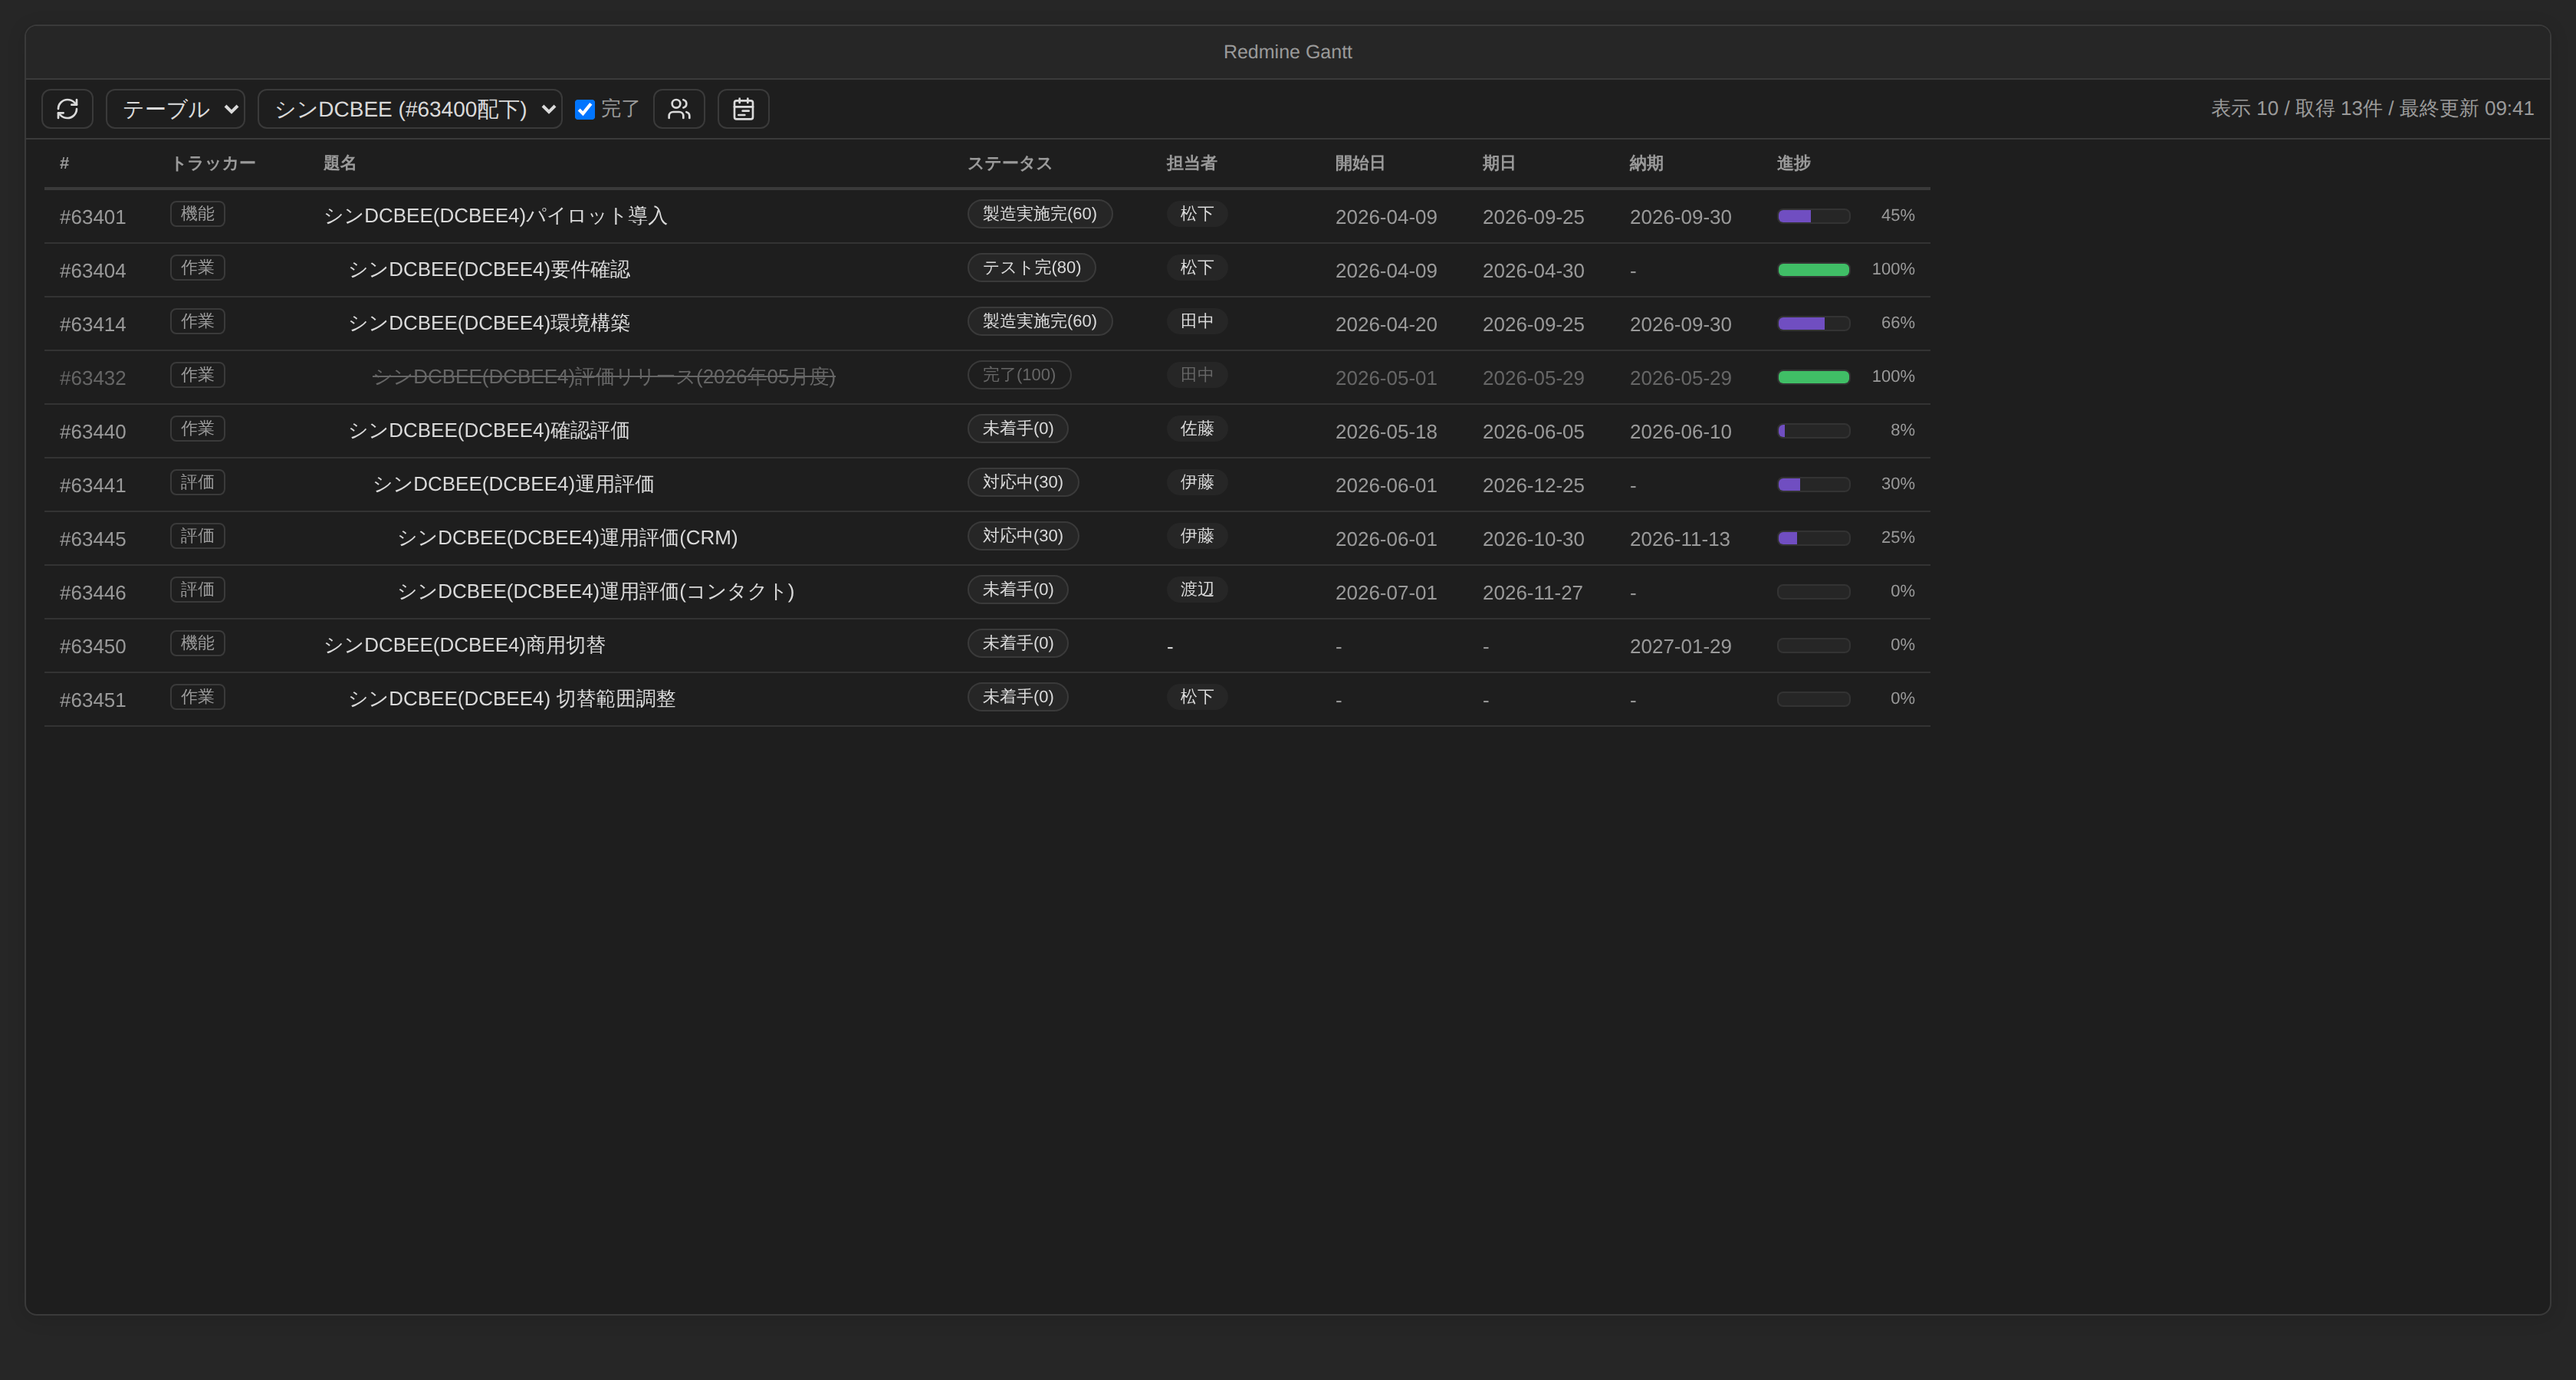
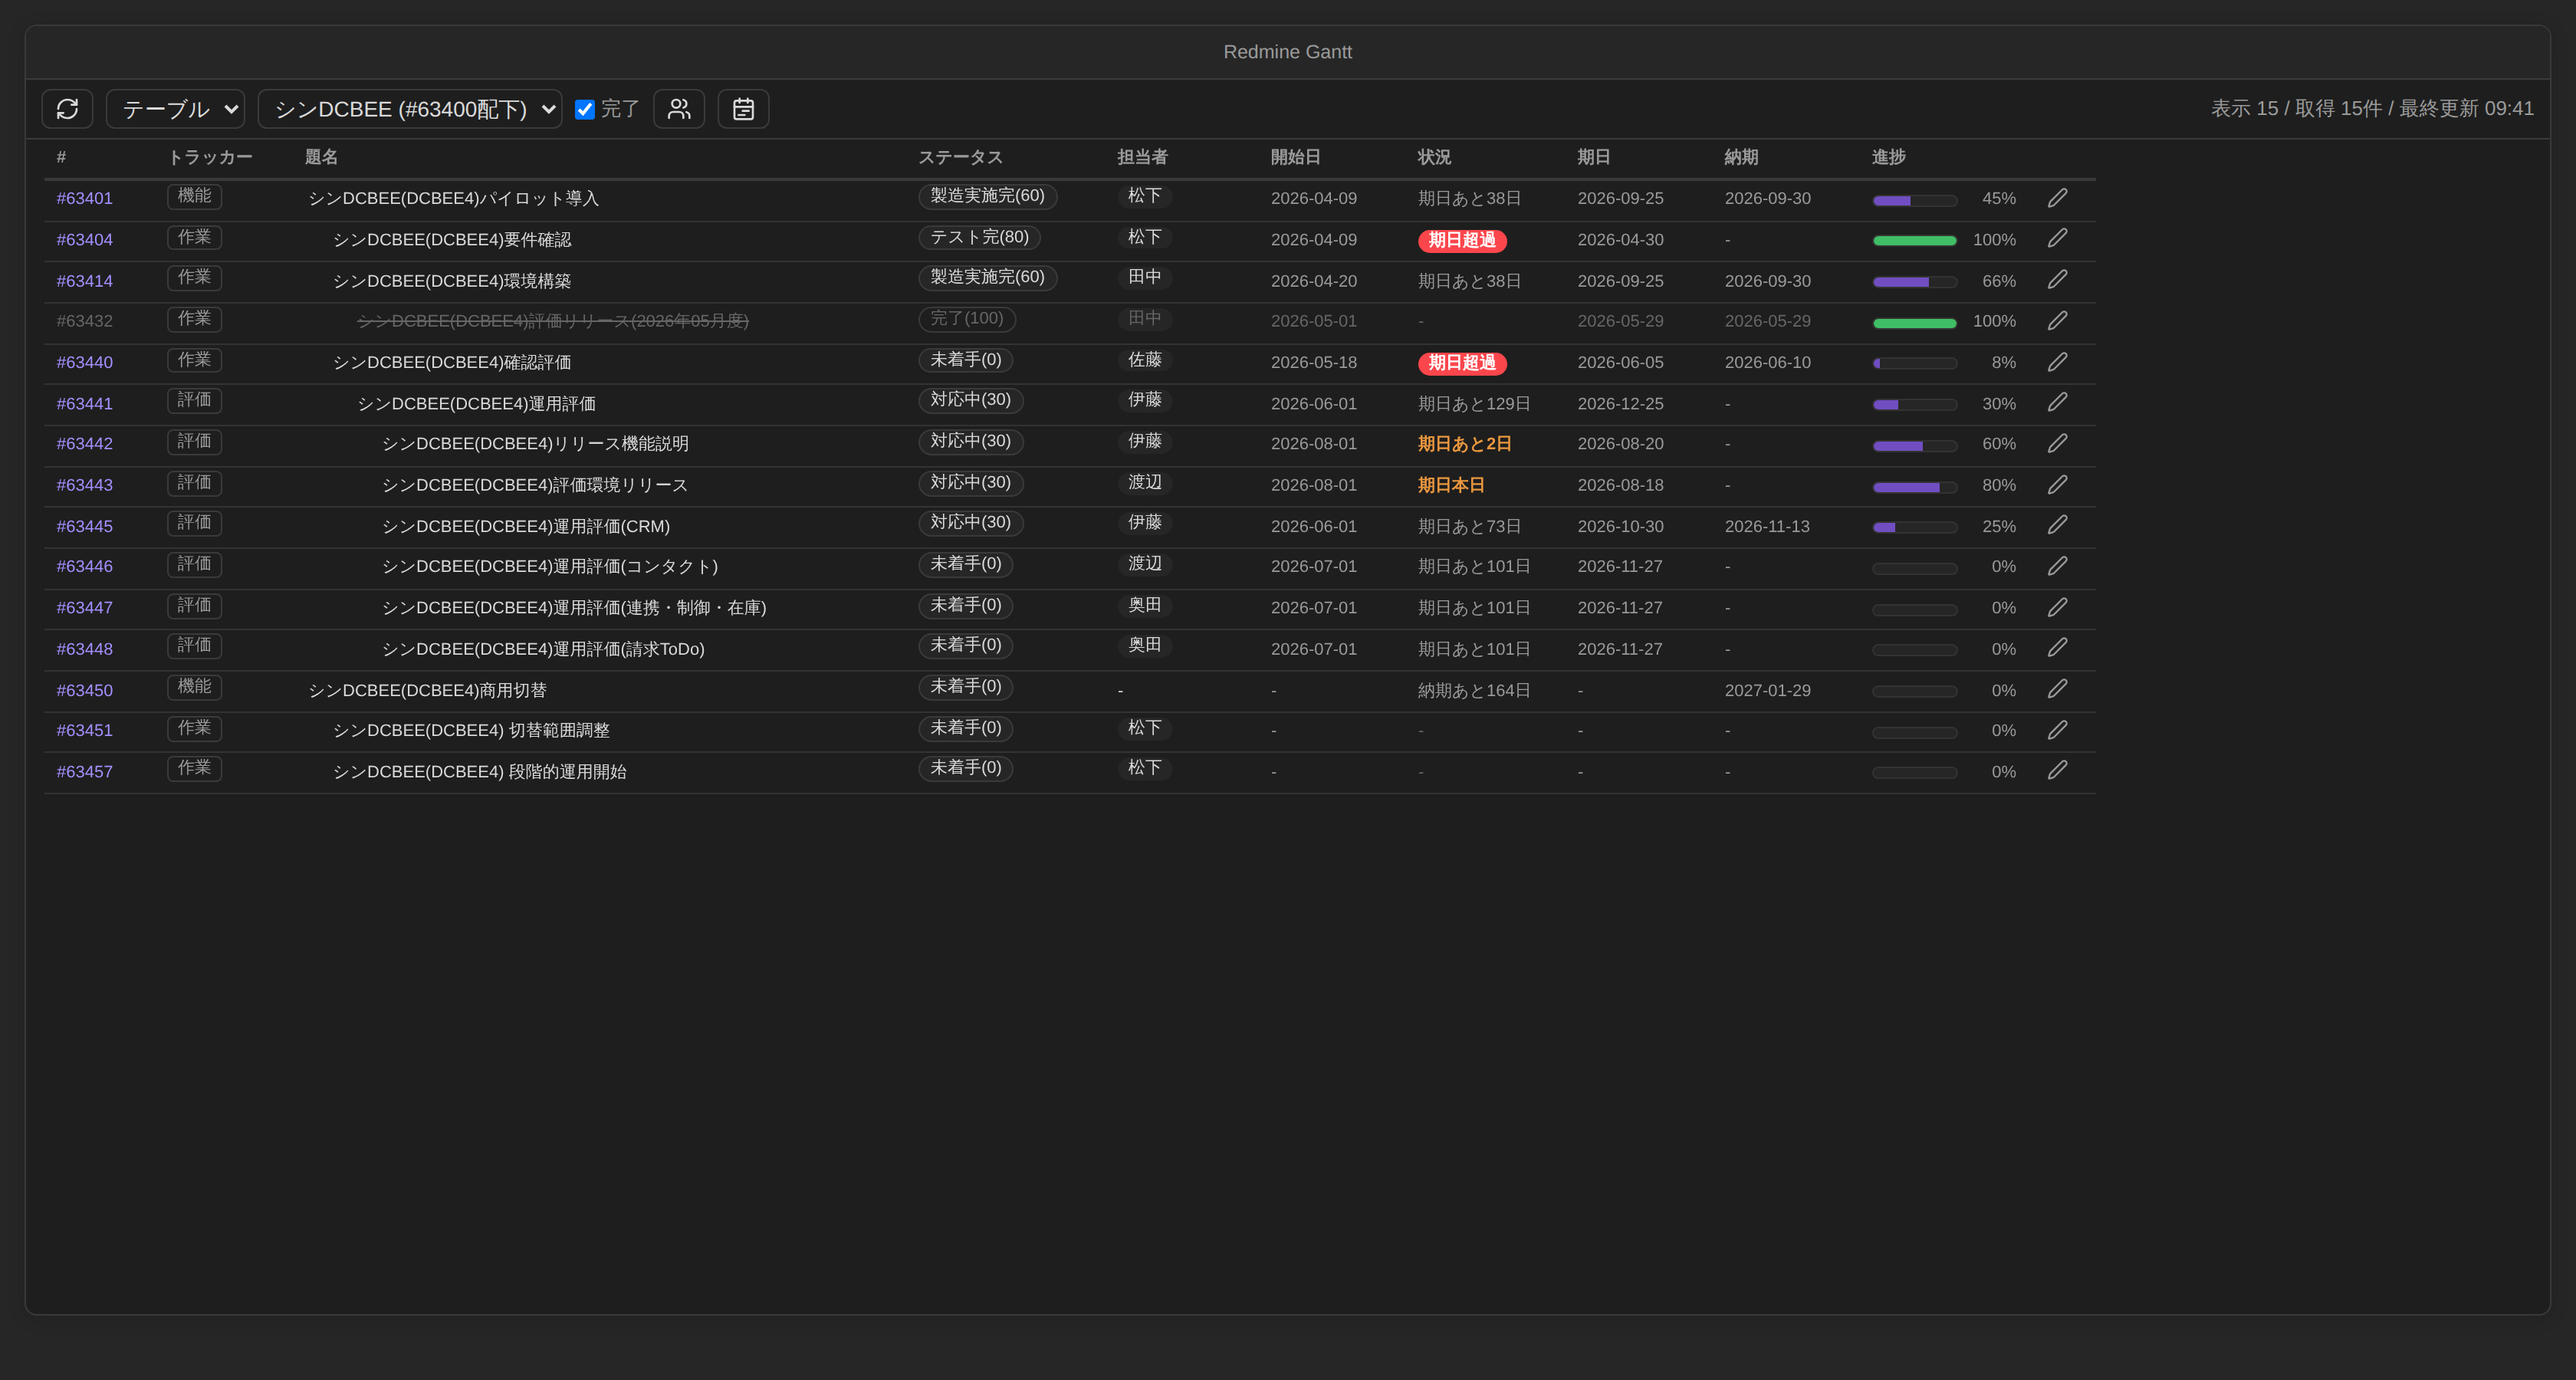
テーブルをコンパクト化し「状況」列を追加
- フォントを一段縮小しセル余白を圧縮、行高を約2/3にして表示件数を増加
  (バッジ・チップ・進捗バー・編集ボタンも縮小)
- 開始日の横に「状況」列を追加: 現在日と期日(なければ納期)を比較し
  「期日あとXX日」を表示。超過は赤バッジ「期日超過」(ツールチップで超過日数)、
  当日・3日以内はオレンジで警告。完了チケットと日付なしは対象外
- 画面イメージ・README・ARCHITECTUREを更新、main.jsを再ビルド

Claude-Session: https://claude.ai/code/session_0118WAWEAhUn2qJokaWLCuZh

Changed region(s): [[0.0, 0.0933, 0.8125, 0.56], [0.4375, 0.2489, 0.4688, 0.4356]]

diff --git a/src/gantt/table.ts b/src/gantt/table.ts
@@ -1,6 +1,7 @@
 import { setIcon } from "obsidian";
 import type { GanttModel, GanttTask } from "../redmine/mapper";
 import { formatDate, RenderOptions } from "./renderer";
+import { diffDays } from "./scale";
 
 const INDENT = 16;
 const MIN_COL_WIDTH = 48;
@@ -12,6 +13,7 @@ const COLUMNS: { label: string; width: number; cls?: string }[] = [
 	{ label: "ステータス", width: 120 },
 	{ label: "担当者", width: 110 },
 	{ label: "開始日", width: 96, cls: "rg-td-date" },
+	{ label: "状況", width: 104 },
 	{ label: "期日", width: 96, cls: "rg-td-date" },
 	{ label: "納期", width: 96, cls: "rg-td-date" },
 	{ label: "進捗", width: 96 },
@@ -132,6 +134,21 @@ function renderRow(tbody: HTMLElement, task: GanttTask, opts: TableOptions): voi
 		cls: "rg-td-date",
 		text: task.start && !task.startIsFallback ? formatDate(task.start) : "-",
 	});
+
+	// 状況(現在日と期日/納期の比較)
+	const situationCell = row.createEl("td");
+	const situation = computeSituation(task);
+	if (situation) {
+		const el = situationCell.createSpan({
+			cls: `rg-due rg-due-${situation.kind}`,
+			text: situation.text,
+		});
+		if (situation.title) el.setAttr("title", situation.title);
+	} else {
+		situationCell.setText("-");
+		situationCell.addClass("rg-td-empty");
+	}
+
 	row.createEl("td", {
 		cls: "rg-td-date",
 		text: task.due && !task.dueIsFallback ? formatDate(task.due) : "-",
@@ -157,4 +174,41 @@ function renderRow(tbody: HTMLElement, task: GanttTask, opts: TableOptions): voi
 		btn.setAttr("aria-label", `#${task.id} を編集`);
 		btn.addEventListener("click", () => opts.onEdit!(task.id));
 	}
+}
+
+/** "YYYY-MM-DD" 形式の納期文字列を日付として解釈する */
+function parseDeliveryDate(s: string): Date | null {
+	const m = s.trim().match(/^(\d{4})-(\d{2})-(\d{2})$/);
+	if (!m) return null;
+	return new Date(Number(m[1]), Number(m[2]) - 1, Number(m[3]));
+}
+
+interface Situation {
+	text: string;
+	kind: "over" | "soon" | "normal";
+	title?: string;
+}
+
+/**
+ * 現在日と期日(なければ納期)を比較した状況表示。
+ * 完了チケット・比較対象の日付がないチケットは null
+ */
+function computeSituation(task: GanttTask): Situation | null {
+	if (task.isClosed) return null;
+	const due = task.due && !task.dueIsFallback ? task.due : null;
+	const delivery = parseDeliveryDate(task.delivery);
+	const label = due ? "期日" : delivery ? "納期" : null;
+	const target = due ?? delivery;
+	if (!label || !target) return null;
+
+	const now = new Date();
+	const today = new Date(now.getFullYear(), now.getMonth(), now.getDate());
+	const diff = diffDays(today, target);
+	if (diff < 0) {
+		return { text: `${label}超過`, kind: "over", title: `${-diff}日超過 (${formatDate(target)})` };
+	}
+	if (diff === 0) {
+		return { text: `${label}本日`, kind: "soon" };
+	}
+	return { text: `${label}あと${diff}日`, kind: diff <= 3 ? "soon" : "normal" };
 }

diff --git a/main.js b/main.js
@@ -1097,6 +1097,7 @@ var COLUMNS = [
   { label: "\u30B9\u30C6\u30FC\u30BF\u30B9", width: 120 },
   { label: "\u62C5\u5F53\u8005", width: 110 },
   { label: "\u958B\u59CB\u65E5", width: 96, cls: "rg-td-date" },
+  { label: "\u72B6\u6CC1", width: 104 },
   { label: "\u671F\u65E5", width: 96, cls: "rg-td-date" },
   { label: "\u7D0D\u671F", width: 96, cls: "rg-td-date" },
   { label: "\u9032\u6357", width: 96 },
@@ -1189,6 +1190,19 @@ function renderRow(tbody, task, opts) {
     cls: "rg-td-date",
     text: task.start && !task.startIsFallback ? formatDate(task.start) : "-"
   });
+  const situationCell = row.createEl("td");
+  const situation = computeSituation(task);
+  if (situation) {
+    const el = situationCell.createSpan({
+      cls: `rg-due rg-due-${situation.kind}`,
+      text: situation.text
+    });
+    if (situation.title)
+      el.setAttr("title", situation.title);
+  } else {
+    situationCell.setText("-");
+    situationCell.addClass("rg-td-empty");
+  }
   row.createEl("td", {
     cls: "rg-td-date",
     text: task.due && !task.dueIsFallback ? formatDate(task.due) : "-"
@@ -1209,6 +1223,32 @@ function renderRow(tbody, task, opts) {
     btn.setAttr("aria-label", `#${task.id} \u3092\u7DE8\u96C6`);
     btn.addEventListener("click", () => opts.onEdit(task.id));
   }
+}
+function parseDeliveryDate(s) {
+  const m = s.trim().match(/^(\d{4})-(\d{2})-(\d{2})$/);
+  if (!m)
+    return null;
+  return new Date(Number(m[1]), Number(m[2]) - 1, Number(m[3]));
+}
+function computeSituation(task) {
+  if (task.isClosed)
+    return null;
+  const due = task.due && !task.dueIsFallback ? task.due : null;
+  const delivery = parseDeliveryDate(task.delivery);
+  const label = due ? "\u671F\u65E5" : delivery ? "\u7D0D\u671F" : null;
+  const target = due != null ? due : delivery;
+  if (!label || !target)
+    return null;
+  const now = /* @__PURE__ */ new Date();
+  const today = new Date(now.getFullYear(), now.getMonth(), now.getDate());
+  const diff = diffDays(today, target);
+  if (diff < 0) {
+    return { text: `${label}\u8D85\u904E`, kind: "over", title: `${-diff}\u65E5\u8D85\u904E (${formatDate(target)})` };
+  }
+  if (diff === 0) {
+    return { text: `${label}\u672C\u65E5`, kind: "soon" };
+  }
+  return { text: `${label}\u3042\u3068${diff}\u65E5`, kind: diff <= 3 ? "soon" : "normal" };
 }
 
 // src/gantt/GanttView.ts

diff --git a/styles.css b/styles.css
@@ -394,7 +394,8 @@
 	border-collapse: separate;
 	border-spacing: 0;
 	table-layout: fixed;
-	font-size: var(--font-ui-small);
+	font-size: var(--font-ui-smaller);
+	line-height: 1.35;
 }
 
 .rg-table th,
@@ -414,12 +415,12 @@
 	color: var(--text-muted);
 	font-weight: 600;
 	font-size: var(--font-ui-smaller);
-	padding: 8px 10px;
+	padding: 5px 8px;
 	border-bottom: 2px solid var(--background-modifier-border);
 }
 
 .rg-table td {
-	padding: 6px 10px;
+	padding: 2px 8px;
 	border-bottom: 1px solid var(--background-modifier-border-hover);
 }
 
@@ -498,8 +499,8 @@ body.rg-resizing {
 	max-width: 100%;
 	overflow: hidden;
 	text-overflow: ellipsis;
-	padding: 1px 9px;
-	border-radius: 10px;
+	padding: 0 7px;
+	border-radius: 9px;
 	font-size: var(--font-ui-smaller);
 	background: var(--background-secondary);
 	border: 1px solid var(--background-modifier-border);
@@ -529,8 +530,8 @@ body.rg-resizing {
 	max-width: 100%;
 	overflow: hidden;
 	text-overflow: ellipsis;
-	padding: 1px 9px;
-	border-radius: 10px;
+	padding: 0 7px;
+	border-radius: 9px;
 	font-size: var(--font-ui-smaller);
 	background: var(--background-secondary);
 }
@@ -552,7 +553,7 @@ body.rg-resizing {
 .rg-edit-btn {
 	display: inline-flex;
 	align-items: center;
-	padding: 3px 6px;
+	padding: 1px 4px;
 	background: transparent;
 	border: none;
 	box-shadow: none;
@@ -573,6 +574,30 @@ body.rg-resizing {
 	margin-bottom: 12px;
 }
 
+/* 状況(期日/納期との比較) */
+.rg-due {
+	font-size: var(--font-ui-smaller);
+	white-space: nowrap;
+}
+
+.rg-due-over {
+	display: inline-block;
+	padding: 0 7px;
+	border-radius: 9px;
+	background: var(--color-red);
+	color: #ffffff;
+	font-weight: 600;
+}
+
+.rg-due-soon {
+	color: var(--color-orange);
+	font-weight: 600;
+}
+
+.rg-due-normal {
+	color: var(--text-muted);
+}
+
 /* 進捗バー */
 .rg-ratio-wrap {
 	display: flex;
@@ -582,7 +607,7 @@ body.rg-resizing {
 
 .rg-progress {
 	flex: 1 1 auto;
-	height: 8px;
+	height: 6px;
 	border-radius: 4px;
 	background: var(--background-secondary);
 	border: 1px solid var(--background-modifier-border-hover);
@@ -602,7 +627,7 @@ body.rg-resizing {
 
 .rg-progress-text {
 	flex: 0 0 auto;
-	width: 36px;
+	width: 32px;
 	text-align: right;
 	color: var(--text-muted);
 	font-size: var(--font-ui-smaller);

diff --git a/README.md b/README.md
@@ -24,8 +24,10 @@
   - Redmineの保存クエリ(`query_id`)
   - 負荷対策のため、プロジェクト全体の一括取得は行いません(フィルタの設定が必須)
 - **表示モードの切り替え**: ガントチャート / チケット一覧テーブルをツールバーで切り替え(選択は記憶)
-  - テーブルは # / トラッカー / 題名 / ステータス / 担当者 / 開始日 / 期日 / **納期** / 進捗 の列構成。列幅はヘッダー境界のドラッグで調整可能
+  - テーブルは # / トラッカー / 題名 / ステータス / 担当者 / 開始日 / **状況** / 期日 / **納期** / 進捗 / 編集 の列構成。列幅はヘッダー境界のドラッグで調整可能
   - 納期列は Redmine のカスタムフィールド「納期」の値を表示
+  - **状況列**: 現在日と期日(なければ納期)を比較して「期日あとXX日」を表示。超過は赤バッジで「期日超過」、当日・3日以内はオレンジで警告。完了チケットは対象外
+  - コンパクトな行高で一覧性を重視
 - **完了チケットの表示切替**: ツールバーの「完了」チェックで切替(既定: 非表示)。再取得なしで即時反映
 - **担当者絞り込みモード**: ツールバーの人物アイコンから担当者を複数選択すると、その担当者のチケットだけを表示し、担当者ごとに色分け(ガントのバー・テーブルのチップ)
 - **チケットの編集**: テーブル各行の鉛筆ボタンから編集モーダルを開き、ステータス / 担当者 / 開始日 / 期日 / 納期 / 進捗率を変更して Redmine へ反映(`PUT /issues/:id.json`)

diff --git a/docs/ARCHITECTURE.md b/docs/ARCHITECTURE.md
@@ -124,6 +124,7 @@ obsidian-redmine-tool/
 | **2.8(実装済み)** | ガントの表示期間指定: 開始月+表示月数(既定は当月から2ヶ月)。範囲外バーのクリップ描画。保存クエリ404時のエラーメッセージ改善(クエリのアクセス権・プロジェクトスコープの案内) |
 | **3** | 自動更新、キャッシュ(オフライン表示)、担当者/ステータスのフィルタ UI、行仮想化 |
 | **4a(実装済み)** | **チケット更新(モーダル編集)**: テーブルの編集ボタンからステータス/担当者/開始日/期日/納期/進捗率を `PUT /issues/:id.json` で更新。モーダルを開くたびに最新を取得し、変更フィールドのみ送信。422エラー(ワークフロー遷移不可等)は内容を表示 |
+| **2.9(実装済み)** | テーブルのコンパクト化(フォント縮小・行高圧縮)と「状況」列: 現在日と期日/納期の比較で「あとXX日」「期日超過(赤バッジ)」を表示 |
 | **4b** | ガント上での直接編集: バーのドラッグ/リサイズによる期日変更。楽観ロック(`updated_on` 比較)と更新確認ダイアログ |
 
 ## 8. 技術スタック
